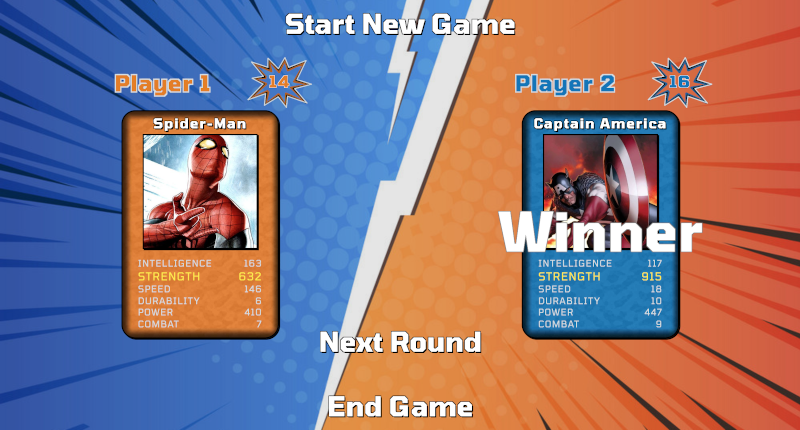
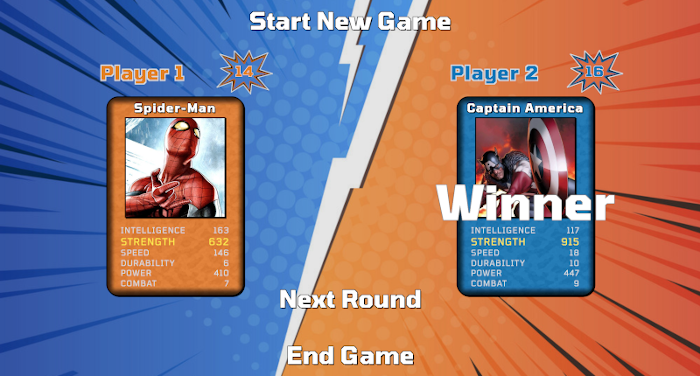
Pre project shakeup

diff --git a/js/mobile-projects-new.js b/js/mobile-projects-new.js
@@ -8,7 +8,7 @@ if (document.documentElement.clientWidth < 1000) {
     const codingLog = document.getElementById("coding-log");
     const codingLogText = document.getElementById("coding-log-text");
     const codingLogImage = document.getElementById("coding-log-image");
-    // const codingLogImageWidth = codingLogImage.offsetWidth;
+
     const codingLogImageHeight = codingLogImage.offsetHeight;
     const codingProjectArray = [codingLog, codingLogText, codingLogImage];
 
@@ -51,10 +51,10 @@ if (document.documentElement.clientWidth < 1000) {
       const firstArray = currentProjectArray;
       firstArray.forEach((object) => {
         object.style.cssText =
-          "transform: translate(-100vw); opacity: 1; z-index: 10; transition: all 1s cubic-bezier(.41,-0.29,.24,.99);";
+          "transform: translate(-100vw); opacity: 1; z-index: 0; transition: all 1s cubic-bezier(.41,-0.29,.24,.99);";
       });
 
-      projectTwoWrapper.style.cssText = "opacity: 1;";
+      projectTwoWrapper.style.cssText = "opacity: 1";
 
       setTimeout(function () {
         firstArray.forEach((object) => {
@@ -79,7 +79,7 @@ if (document.documentElement.clientWidth < 1000) {
       setTimeout(function () {
         currentProjectArray.forEach((object) => {
           object.style.cssText =
-            "transform: translate(0vw); opacity: 1; z-index: 10;  transition: all 1s cubic-bezier(.41,-0.29,.24,.99);";
+            "transform: translate(0vw); opacity: 1; z-index: 0;  transition: all 1s cubic-bezier(.41,-0.29,.24,.99);";
         });
       }, 200);
     }

diff --git a/styles/super-trumps.css b/styles/super-trumps.css
@@ -19,7 +19,7 @@
 #super-trumps-github {
   color: var(--main);
   text-decoration: none;
-  z-index: 10;
+  z-index: 100;
 }
 
 @media (max-width: 1000px) {
@@ -56,7 +56,7 @@
   #super-trumps-image:before {
     content: "";
     position: absolute;
-    background: url(../../images/super-trumps00.png) no-repeat center;
+    background: url(../../images/super-trumps0.png) no-repeat center;
     background-size: cover;
     width: 451.8px;
     height: 243px;
@@ -110,7 +110,7 @@
   #super-trumps-image:before {
     content: "";
     position: absolute;
-    background: url(../../images/super-trumps00.png) no-repeat center;
+    background: url(../../images/super-trumps0.png) no-repeat center;
     background-size: cover;
     width: 502px;
     height: 270px;

diff --git a/styles/coding-log.css b/styles/coding-log.css
@@ -14,12 +14,14 @@
   color: #ffffff;
   letter-spacing: 0px;
   margin-bottom: 0;
+  z-index: 110;
 }
 
 #coding-log-github {
-  color: #ffffff;
+  position: relative;
+  color: var(--main);
   text-decoration: none;
-  z-index: 10;
+  z-index: 110;
 }
 
 @media (max-width: 1000px) {
